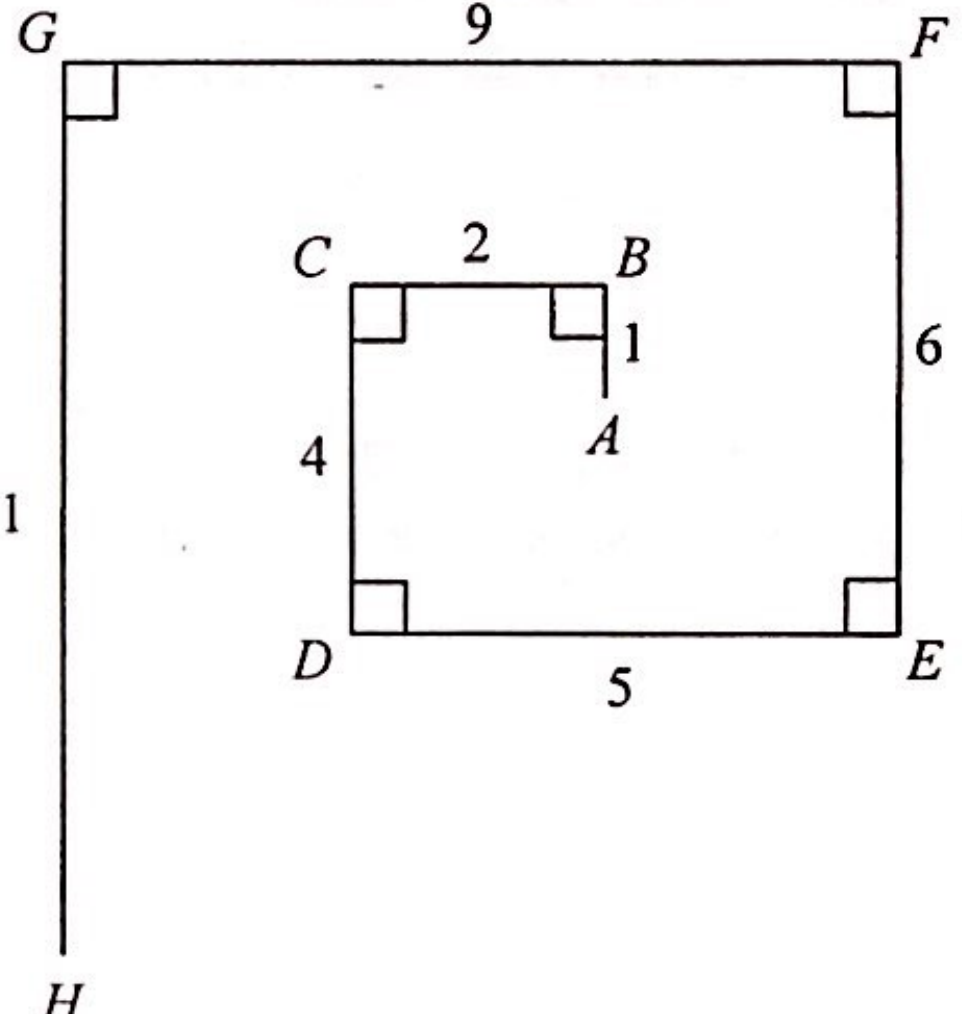
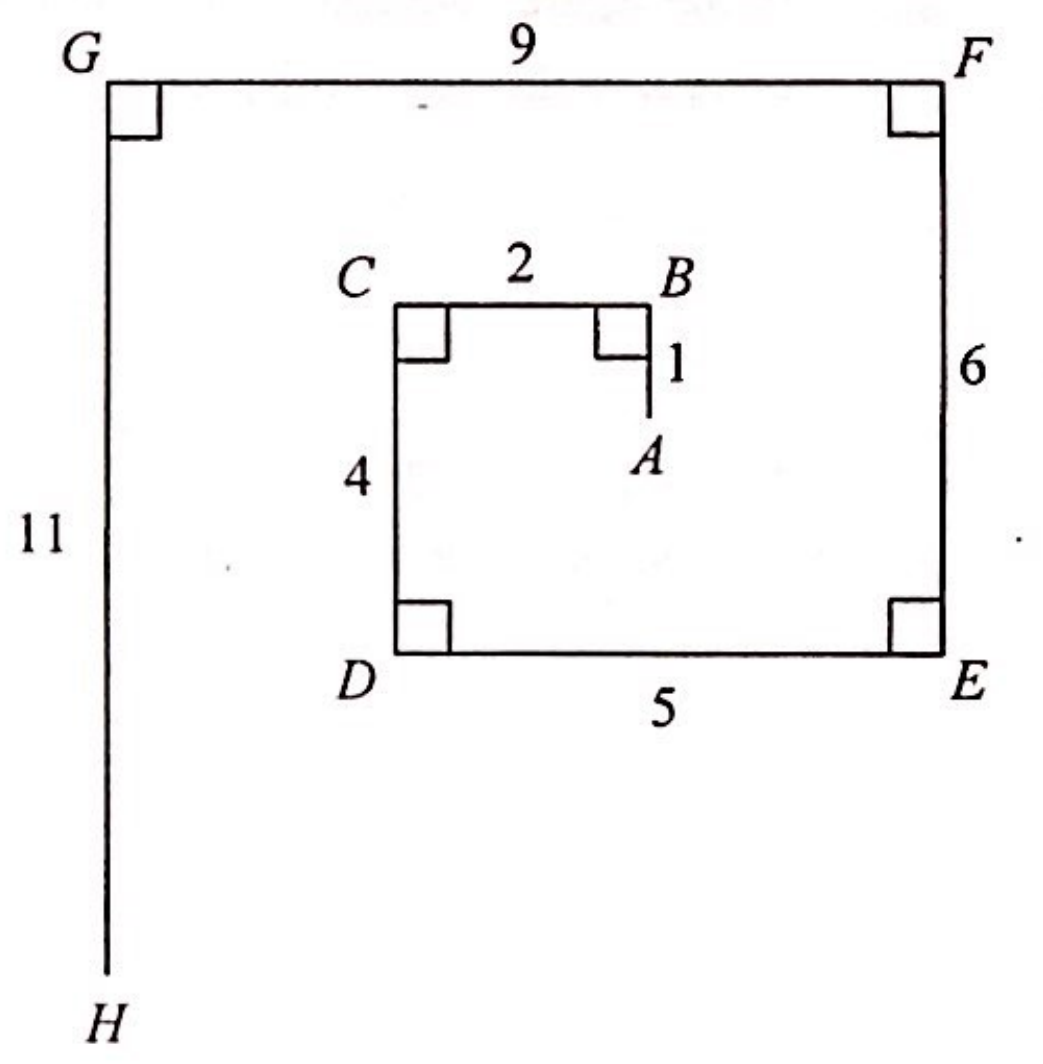
2017 Q19：重裁（左邊 11 與 H 之前被切）

Changed region(s): [[0.0, 0.0, 0.9979, 1.0]]

diff --git a/docs/hub/index.html b/docs/hub/index.html
@@ -92,6 +92,6 @@
 <script src="../data.js?v=20261105n"></script>
 <script src="data.js?v=20261105n"></script>
 <script src="app.js?v=20261105n"></script>
-<script src="../pwa.js?v=202611090629"></script>
+<script src="../pwa.js?v=202611090631"></script>
 </body>
 </html>

diff --git a/docs/sw.js b/docs/sw.js
@@ -1,7 +1,7 @@
 /* ===== DSE Hub service worker â€” ç¶²çµ¡å„ªå…ˆï¼Œæ–·ç·šç”¨å¿«å– ===== */
 "use strict";
 
-const CACHE = "dsehub-v202611090629";
+const CACHE = "dsehub-v202611090631";
 const SHELL = [
   "./",
   "./hub/",

diff --git a/docs/index.html b/docs/index.html
@@ -594,6 +594,6 @@ if (!location.hash) {
   openFromHash();
 }
 </script>
-<script src="pwa.js?v=202611090629"></script>
+<script src="pwa.js?v=202611090631"></script>
 </body>
 </html>
